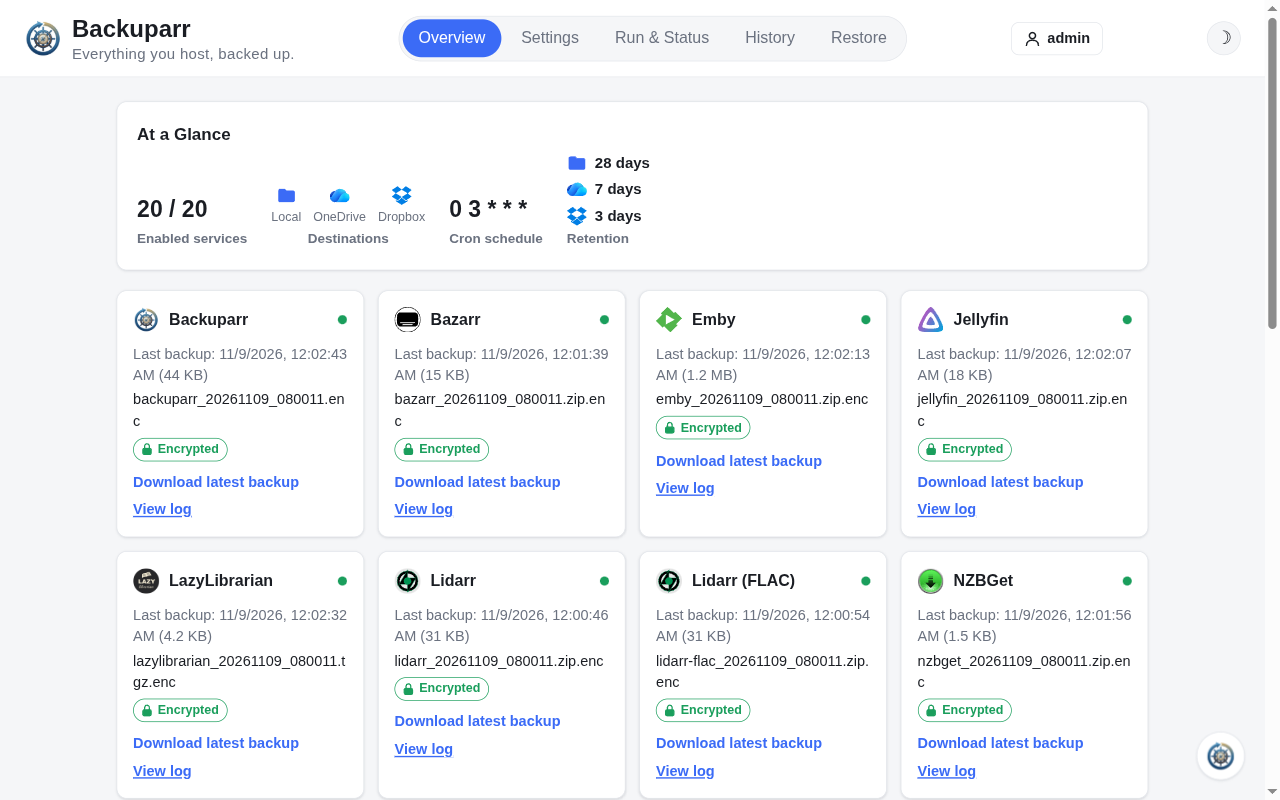
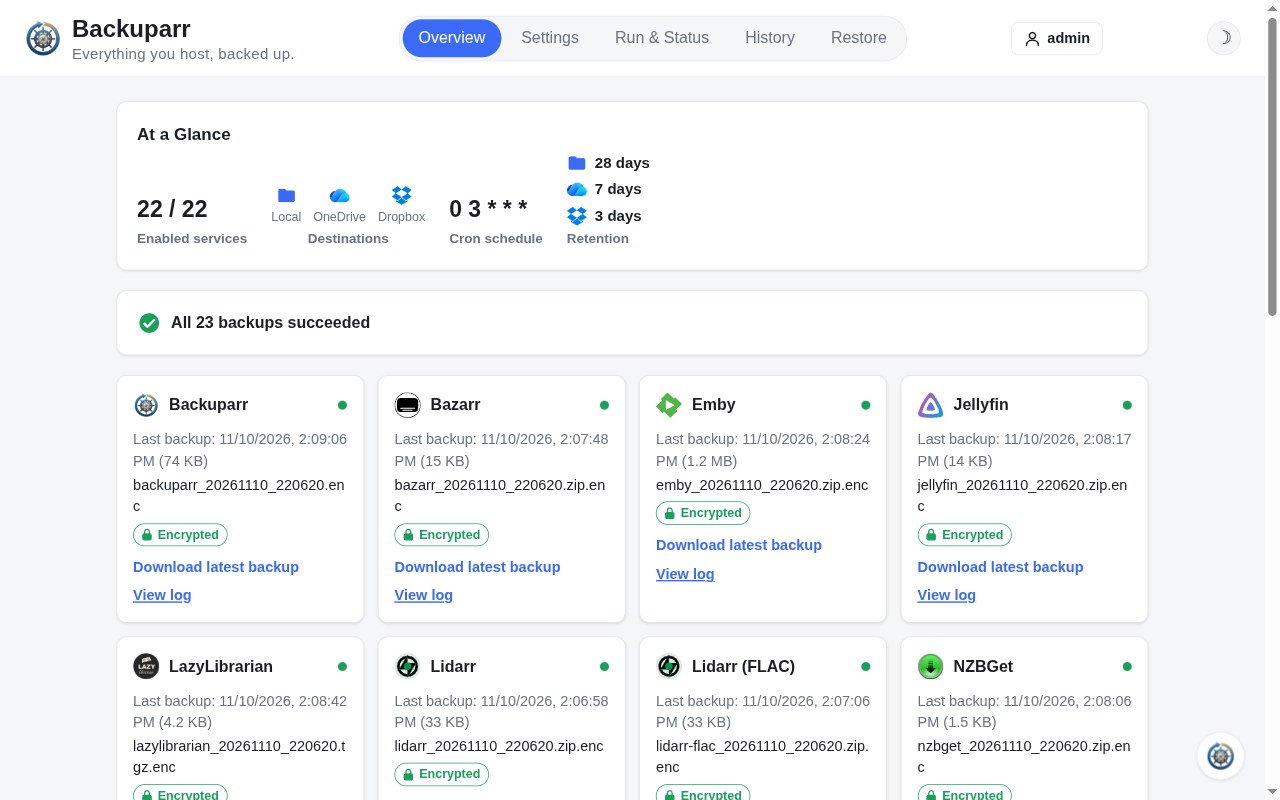
Sum up every app's latest backup on the Overview (#167)
A status bar between At a Glance and the app cards, built from the data
that sets each card's dot: every enabled app and instance, plus Backuparr
while its card is on.

- All succeeded: a green check and "All 23 backups succeeded".
- Some failed: a red mark, "22 of 24 backups succeeded", and a line per
  failure (icon, name, the card's error) that scrolls to its card and
  highlights it.
- Not backed up yet isn't a failure: "1 not backed up yet" beside the count
  (on its own line on a phone).
- With no app enabled it's hidden; while loading it's hidden rather than
  stale; during a run it says "Backing up... Run & Status" and reloads the
  Overview when the run ends.
- Docs (an Overview section in Backups and history), CHANGELOG and the
  Overview screenshot.

diff --git a/webui/static/app.js b/webui/static/app.js
@@ -278,6 +278,7 @@ async function showEncryptionNotice() {
 function overviewCard(appId, { label, icon, latest, failure, latestRun, idleText }) {
   const card = document.createElement("div");
   card.className = "overview-app-card";
+  card.id = `overview-card-${appId}`; // the status bar's failure lines scroll here
 
   const head = document.createElement("div");
   head.className = "overview-app-head";
@@ -330,6 +331,131 @@ function overviewCard(appId, { label, icon, latest, failure, latestRun, idleText
   return card;
 }
 
+// ------------------------------------------------------- status bar (#167) ----
+// One line for every app's latest backup, under At a Glance: each enabled app
+// and instance, and Backuparr's own while it's on, judged like its card's dot.
+let OVERVIEW_RUN_TIMER = null;
+
+function statusIcon(ok) {
+  const ns = "http://www.w3.org/2000/svg";
+  const svg = document.createElementNS(ns, "svg");
+  svg.setAttribute("viewBox", "0 0 24 24");
+  svg.setAttribute("aria-hidden", "true");
+  svg.setAttribute("class", "status-icon");
+  const circle = document.createElementNS(ns, "circle");
+  Object.entries({ cx: 12, cy: 12, r: 11 }).forEach(([k, v]) => circle.setAttribute(k, v));
+  const mark = document.createElementNS(ns, "path");
+  mark.setAttribute("d", ok ? "M7 12.5l3.2 3.2L17 9" : "M8 8l8 8M16 8l-8 8");
+  svg.append(circle, mark);
+  return svg;
+}
+
+function overviewStatusState(item) {
+  return item.failure ? "fail" : item.latest ? "ok" : "idle";
+}
+
+// While a backup runs the bar says so, and the Overview reloads when it ends.
+async function reloadOverviewWhenRunEnds() {
+  OVERVIEW_RUN_TIMER = null;
+  if (!document.getElementById("tab-overview").classList.contains("active")) return;
+  try {
+    if (!(await apiFetch("/api/backup/status")).running) {
+      loadOverview();
+      return;
+    }
+  } catch (e) {
+    // the container may be restarting; try again
+  }
+  OVERVIEW_RUN_TIMER = setTimeout(reloadOverviewWhenRunEnds, 5000);
+}
+
+function scrollToOverviewCard(appId) {
+  const card = document.getElementById(`overview-card-${appId}`);
+  if (!card) return;
+  card.scrollIntoView({ behavior: "smooth", block: "center" });
+  card.classList.remove("flash");
+  void card.offsetWidth; // restart the highlight
+  card.classList.add("flash");
+  setTimeout(() => card.classList.remove("flash"), 1700);
+}
+
+function renderOverviewStatus(items, running) {
+  const bar = document.getElementById("overview-status");
+  bar.replaceChildren();
+  clearTimeout(OVERVIEW_RUN_TIMER);
+  OVERVIEW_RUN_TIMER = null;
+  bar.classList.toggle("hidden", !items.length);
+  if (!items.length) return;
+
+  const head = document.createElement("div");
+  head.className = "overview-status-head";
+  bar.appendChild(head);
+  if (running) {
+    bar.dataset.state = "running";
+    const spinner = document.createElement("span");
+    spinner.className = "spinner";
+    const link = document.createElement("button");
+    link.type = "button";
+    link.className = "link-btn";
+    link.textContent = "Run & Status";
+    link.addEventListener("click", () => document.querySelector('.tab-btn[data-tab="run"]').click());
+    head.append(spinner, document.createTextNode("Backing up... "), link);
+    OVERVIEW_RUN_TIMER = setTimeout(reloadOverviewWhenRunEnds, 5000);
+    return;
+  }
+
+  const failed = items.filter((item) => overviewStatusState(item) === "fail");
+  const succeeded = items.filter((item) => overviewStatusState(item) === "ok").length;
+  const notYet = items.length - failed.length - succeeded;
+  bar.dataset.state = failed.length ? "fail" : "ok";
+  const total = items.length;
+  let text;
+  if (!failed.length && !notYet) text = total === 1 ? "The backup succeeded" : `All ${total} backups succeeded`;
+  else text = `${succeeded} of ${total} ${total === 1 ? "backup" : "backups"} succeeded`;
+  const strong = document.createElement("span");
+  strong.className = "overview-status-text";
+  strong.textContent = text;
+  head.append(statusIcon(!failed.length), strong);
+  if (notYet) {
+    const extra = document.createElement("span");
+    extra.className = "overview-status-extra";
+    extra.textContent = `${notYet} not backed up yet`;
+    head.appendChild(extra);
+  }
+
+  if (!failed.length) return;
+  const list = document.createElement("ul");
+  list.className = "overview-status-list";
+  failed.forEach((item) => {
+    const li = document.createElement("li");
+    const btn = document.createElement("button");
+    btn.type = "button";
+    btn.className = "overview-status-item";
+    btn.title = `Go to ${item.label}`;
+    if (item.icon) {
+      const img = document.createElement("img");
+      img.className = "app-icon";
+      img.src = item.icon;
+      img.alt = "";
+      btn.appendChild(img);
+    }
+    // One run of text, so a long error wraps under the name on a phone.
+    const line = document.createElement("span");
+    line.className = "overview-status-line";
+    const name = document.createElement("strong");
+    name.textContent = `${item.label}:`;
+    const error = document.createElement("span");
+    error.className = "overview-status-error";
+    error.textContent = ` ${item.failure}`;
+    line.append(name, error);
+    btn.appendChild(line);
+    btn.addEventListener("click", () => scrollToOverviewCard(item.id));
+    li.appendChild(btn);
+    list.appendChild(li);
+  });
+  bar.appendChild(list);
+}
+
 // The scheduler skips a saved schedule that isn't valid, e.g. one an update
 // of the cron library stopped accepting (#166) - say so instead of nothing.
 function showScheduleWarning(elementId, valid) {
@@ -343,11 +469,12 @@ async function loadOverview() {
   const appsEl = document.getElementById("overview-apps");
   summaryEl.textContent = "Loading...";
   appsEl.innerHTML = "";
+  renderOverviewStatus([], false); // nothing stale while it loads
   try {
     const cfg = await apiFetch("/api/config");
     const destIds = enabledDestinationIds(cfg);
 
-    const [histories, latestRuns] = await Promise.all([
+    const [histories, latestRuns, runState] = await Promise.all([
       Promise.all(destIds.map((id) => whileStorageWakes(id, apiFetch(`/api/history/${id}`), () => {
         summaryEl.textContent = STORAGE_WAIT_TEXT;
       }).catch((e) => {
@@ -355,6 +482,7 @@ async function loadOverview() {
         return {};
       }))),
       apiFetch("/api/runlogs"),
+      apiFetch("/api/backup/status").catch(() => null), // the status bar's "Backing up..."
     ]);
     // Per app, the single most recent backup across every enabled destination.
     const latestByApp = {};
@@ -396,6 +524,16 @@ async function loadOverview() {
     });
     summaryEl.append(enabledStat, destinationsStat(destIds), cronStat, retentionStat(cfg, destIds));
     showScheduleWarning("overview-schedule-warning", cfg.schedule_valid);
+
+    const statusItems = [
+      ...(cfg.self_backup === false ? [] : ["backuparr"]),
+      ...enabledIds,
+    ].map((appId) => ({
+      id: appId, label: appLabel(appId), latest: latestByApp[appId], failure: failureByApp[appId],
+      icon: appId === "backuparr" ? "/static/logo.png" : appMeta(appId) ? `/static/icons/${appMeta(appId).icon}` : null,
+    }));
+    // With no app enabled the page says to add one; the bar has nothing to say.
+    renderOverviewStatus(enabledIds.length ? statusItems : [], !!(runState && runState.running));
 
     // Backuparr's own backup leads, always there (#110); then each enabled app.
     appsEl.appendChild(overviewCard("backuparr", {

diff --git a/webui/static/style.css b/webui/static/style.css
@@ -1089,6 +1089,53 @@ code {
   gap: 14px;
 }
 
+/* The status bar over the app cards (#167). */
+.overview-status-head {
+  display: flex;
+  align-items: center;
+  flex-wrap: wrap;
+  gap: 4px 10px;
+  font-size: 16px;
+}
+.overview-status-text { font-weight: 600; }
+.overview-status-extra { color: var(--text-muted); }
+.overview-status-extra::before { content: "\00b7"; margin-right: 10px; }
+.status-icon { width: 24px; height: 24px; flex: none; fill: currentColor; stroke: var(--bg-elevated); stroke-width: 2.4; stroke-linecap: round; stroke-linejoin: round; }
+.overview-status[data-state="ok"] .status-icon { color: var(--ok); }
+.overview-status[data-state="fail"] .status-icon { color: var(--danger); }
+.overview-status-list { list-style: none; margin: 12px 0 0; padding: 0; display: flex; flex-direction: column; gap: 2px; }
+.overview-status-item {
+  display: flex;
+  align-items: flex-start;
+  gap: 8px;
+  width: 100%;
+  padding: 6px 8px;
+  border: 0;
+  border-radius: 8px;
+  background: none;
+  color: var(--text);
+  font: inherit;
+  text-align: left;
+  cursor: pointer;
+}
+.overview-status-item:hover, .overview-status-item:focus-visible { background: var(--bg); }
+.overview-status-item .app-icon { width: 20px; height: 20px; flex: none; margin-top: 1px; }
+.overview-status-line { min-width: 0; overflow-wrap: anywhere; line-height: 1.45; }
+.overview-status-error { color: var(--text-muted); }
+@media (max-width: 480px) {
+  /* "n not backed up yet" on its own line, under the text, without the dot. */
+  .overview-status-extra { flex-basis: 100%; padding-left: 34px; }
+  .overview-status-extra::before { content: none; }
+}
+.overview-app-card.flash { animation: card-flash 1.6s ease-out; }
+@keyframes card-flash {
+  from { box-shadow: 0 0 0 3px var(--accent); }
+  to { box-shadow: var(--shadow); }
+}
+@media (prefers-reduced-motion: reduce) {
+  .overview-app-card.flash { animation: none; outline: 3px solid var(--accent); }
+}
+
 .overview-app-card {
   background: var(--bg-elevated);
   border: 1px solid var(--border);

diff --git a/webui/templates/index.html b/webui/templates/index.html
@@ -53,6 +53,7 @@
       <div id="overview-summary" class="overview-summary"></div>
       <p id="overview-schedule-warning" class="schedule-warning hidden" role="status"></p>
     </div>
+    <div id="overview-status" class="card overview-status hidden" role="status" aria-live="polite"></div>
     <div id="overview-apps" class="overview-apps"></div>
   </section>
 

diff --git a/tests/test_webui_settings.py b/tests/test_webui_settings.py
@@ -485,6 +485,12 @@ def test_the_page_carries_the_ui_metadata_as_data(authed_client):
                                       "self_app": SELF_APP}
 
 
+def test_the_overview_has_its_status_bar_under_at_a_glance(authed_client):
+    """#167: app.js fills it; it sits between At a Glance and the app cards."""
+    html = authed_client.get("/").get_data(as_text=True)
+    assert html.index("At a Glance") < html.index('id="overview-status"') < html.index('id="overview-apps"')
+
+
 def test_backuparrs_own_card_heads_server_and_is_never_an_app(authed_client):
     """#165: its switch is self_backup, out of Schedule & Notifications; the
     card has no data-app, so Save never sends it as an app."""

diff --git a/CHANGELOG.md b/CHANGELOG.md
@@ -7,6 +7,7 @@ format is based on [Keep a Changelog](https://keepachangelog.com/en/1.1.0/).
 
 ### Added
 
+- The Overview sums up every app's latest backup in one line under At a Glance: "All 17 backups succeeded", or how many succeeded with a line per failure that jumps to its card; apps not backed up yet are counted apart, and it says "Backing up..." during a run (#167).
 - Pi-hole (v6 and newer) backups and restores over its API with Teleporter, using an app password; Test connection checks that Pi-hole lets app passwords use Teleporter (webserver.api.app_sudo) and says where to turn it on. Its backups are always encrypted, and a second Pi-hole can be added as an instance (#149).
 - History can download or delete several backups at once: Select, tick them, and use the bar at the bottom of the window; several downloads come as one zip (#148).
 - Backups are encrypted with your encryption key before upload, on by default for every app and switched per app with Encrypt backup on its card; History and the Overview show which backups are encrypted, downloads come back decrypted with a warning, and a restore from another install asks for that install's key (#147).

diff --git a/docs/backups.md b/docs/backups.md
@@ -22,6 +22,16 @@ schedule picker never writes these.
 
 ![Run & Status tab: a backup of all apps in progress, with its live log]({{ '/screenshots/run.png' | relative_url }})
 
+## The Overview
+
+Under **At a Glance**, one line sums up the latest backup of every enabled
+app and instance, and of Backuparr itself: "All 17 backups succeeded", or
+"15 of 17 backups succeeded" with a line for each one that failed, its error
+included. Click a line to jump to that app's card, which has its log. A
+backup that failed on one destination counts as failed. An app with no backup
+yet isn't a failure: the line says how many aren't backed up yet. While a
+backup runs it says "Backing up...", and it updates when the run ends.
+
 ## Retention
 
 **Default retention (days)** deletes each app's backups older than that,

diff --git a/README.md b/README.md
@@ -26,7 +26,7 @@ If you like Backuparr, give it a ⭐ star - it helps the project grow.
 
 <table>
   <tr>
-    <td><img src="docs/screenshots/overview.png" alt="Overview tab: enabled services, destinations, schedule and retention, and each app's last backup"><br><b>Overview</b></td>
+    <td><img src="docs/screenshots/overview.png" alt="Overview tab: enabled services, destinations, schedule and retention, a line saying all 23 backups succeeded, and each app's last backup"><br><b>Overview</b></td>
     <td><img src="docs/screenshots/settings.png" alt="Settings tab: apps grouped by category on the left, each category folding away under a header with its enabled count, Server open on Backuparr's own card, and destinations on the right"><br><b>Settings</b></td>
   </tr>
   <tr>

diff --git a/docs/index.md b/docs/index.md
@@ -21,7 +21,7 @@ LazyLibrarian also need a folder mounted into Backuparr - see [Apps](apps/index.
 [Get started](getting-started.md){: .btn .btn-primary }
 [View on GitHub](https://github.com/rsaturns/backuparr){: .btn }
 
-![Overview tab: enabled services, destinations, schedule and retention, and each app's last backup](screenshots/overview.png)
+![Overview tab: enabled services, destinations, schedule and retention, a line saying all 23 backups succeeded, and each app's last backup](screenshots/overview.png)
 
 ## Where to find things
 
